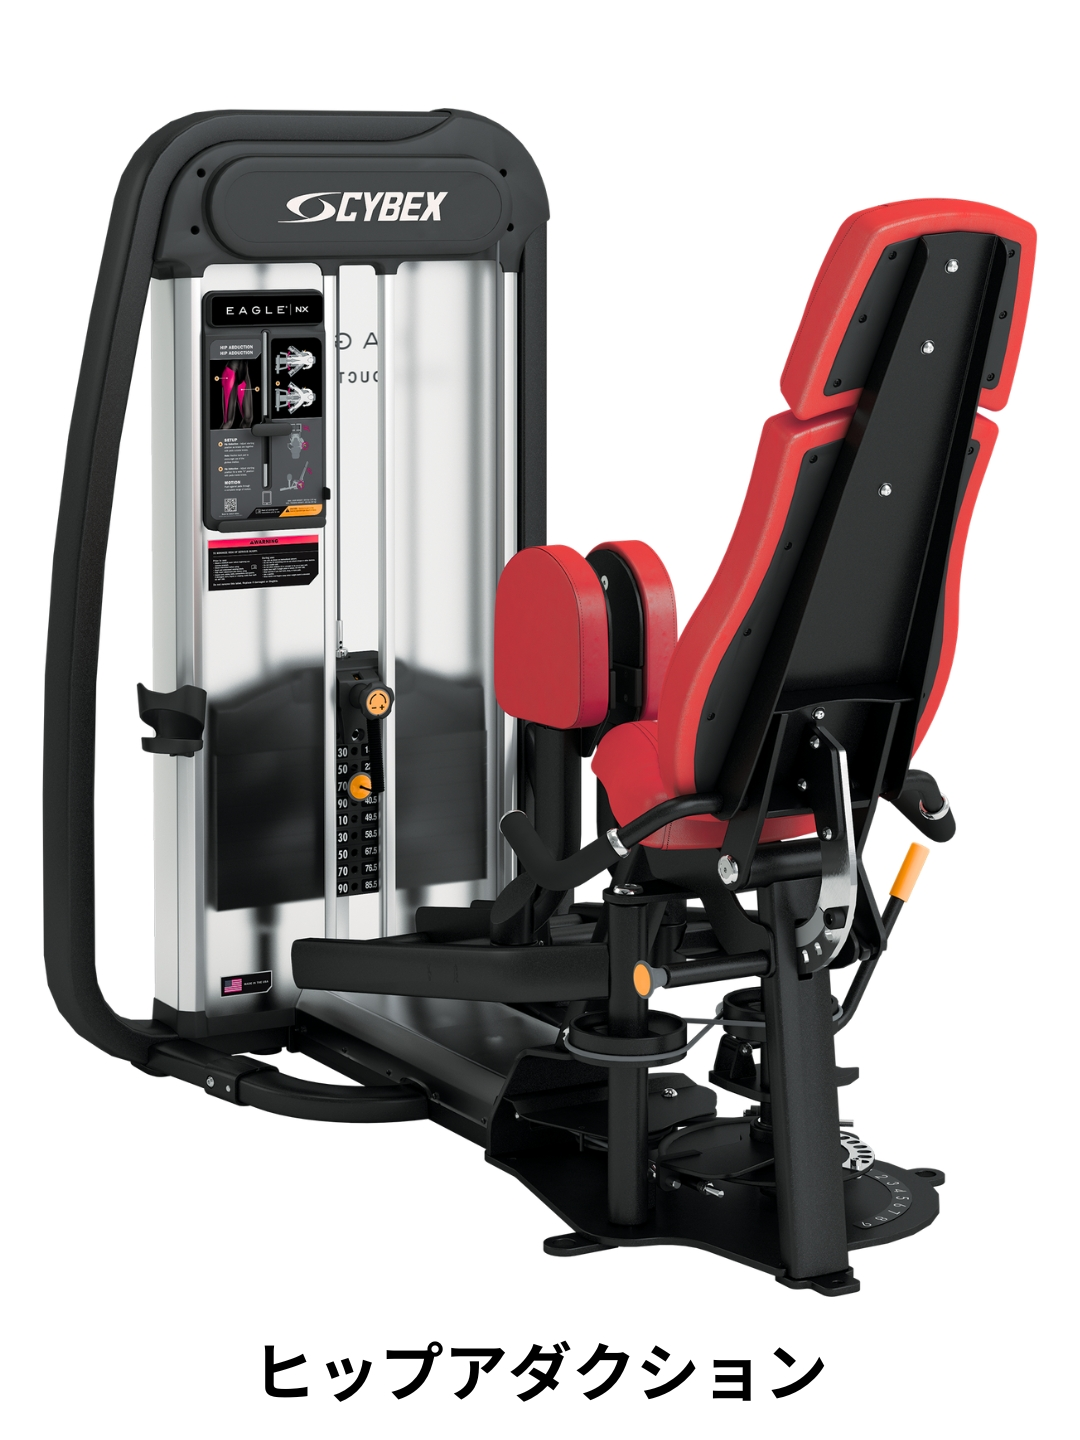
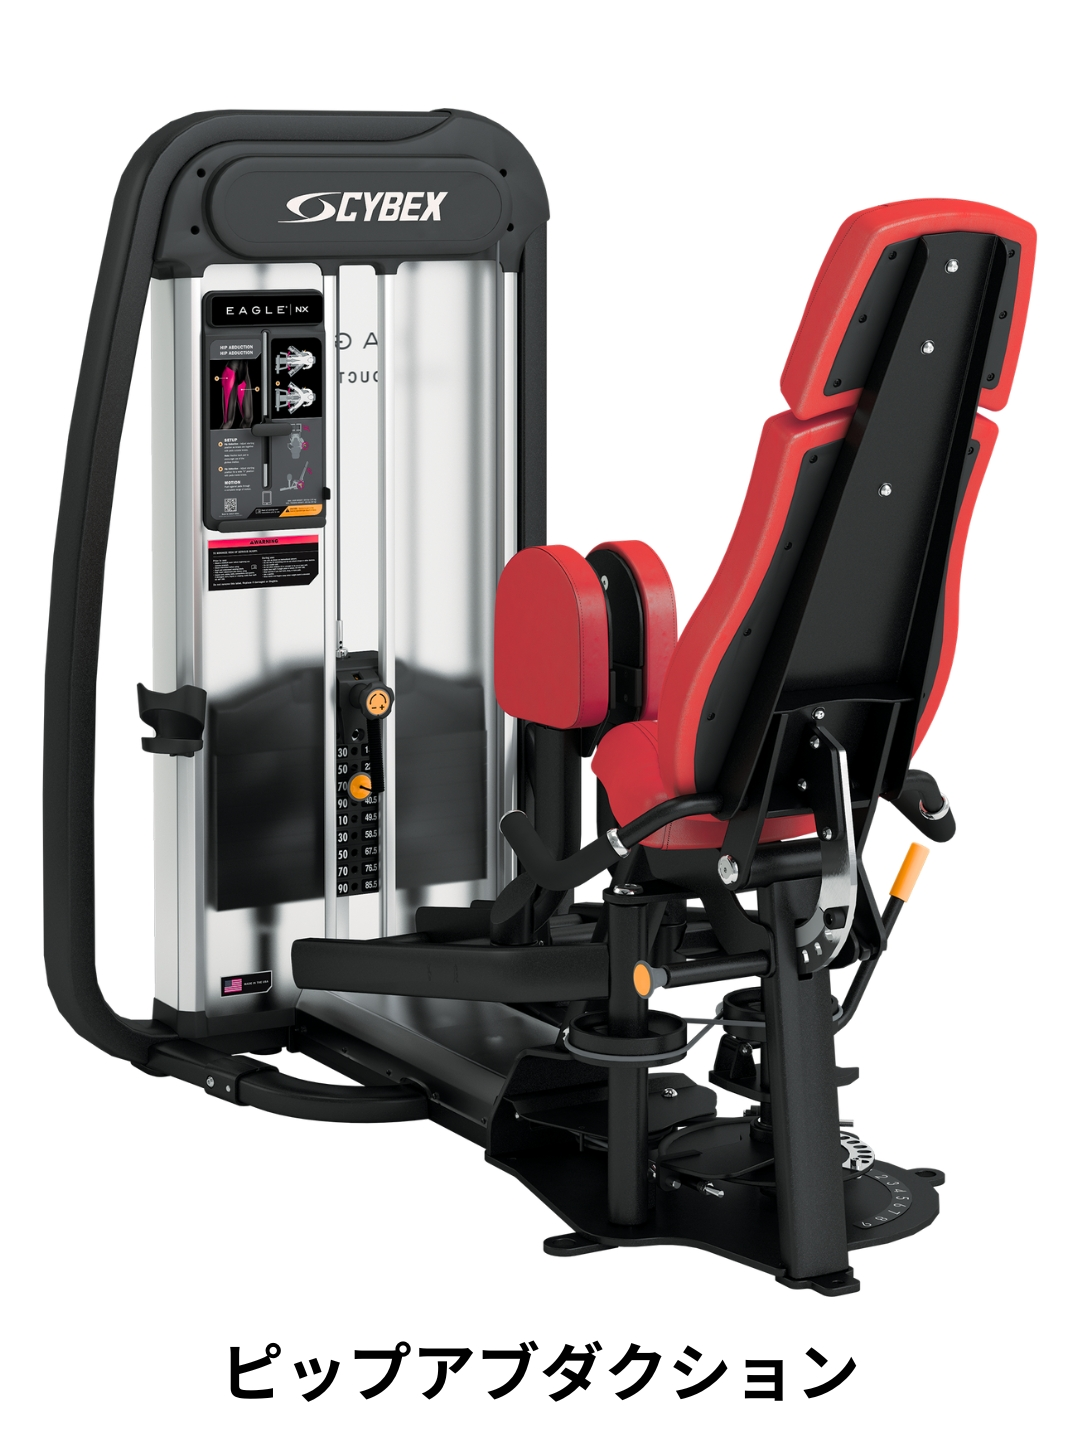
Reuse hip abduction art and size for adduction.

Changed region(s): [[0.2139, 0.9375, 0.7944, 0.9688]]

diff --git a/api/machines.js b/api/machines.js
@@ -210,7 +210,8 @@ async function fetchExisting(used) {
     if (isHipCombo) {
       const parts = [
         { id: "resistance_10", label: "ヒップアブダクション", photoKey: "resistance_10" },
-        { id: "resistance_11", label: "ヒップアダクション", photoKey: "resistance_11" },
+        // アダクションはアブと同寸法・同アート（画像はファイル複製）
+        { id: "resistance_11", label: "ヒップアダクション", photoKey: "resistance_10" },
       ];
       for (const part of parts) {
         if (used.has(part.id)) continue;

diff --git a/floorplan-app/app.js b/floorplan-app/app.js
@@ -8,7 +8,7 @@ const AUTHOR_KEY = "kyodo-floorplan-author";
 const PLACE_BASE = "../floorplan/machines/place/";
 const PREVIEW_BASE = "../floorplan/machines/preview/";
 /** 画像差し替え時にブラウザ/CDNキャッシュを切る */
-const ART_VER = "20260913i";
+const ART_VER = "20260913j";
 const CSV_URL = "../floorplan/machines.csv";
 const CATALOG_URL = "../floorplan/machines_catalog.json";
 const MACHINES_API = "/api/machines";
